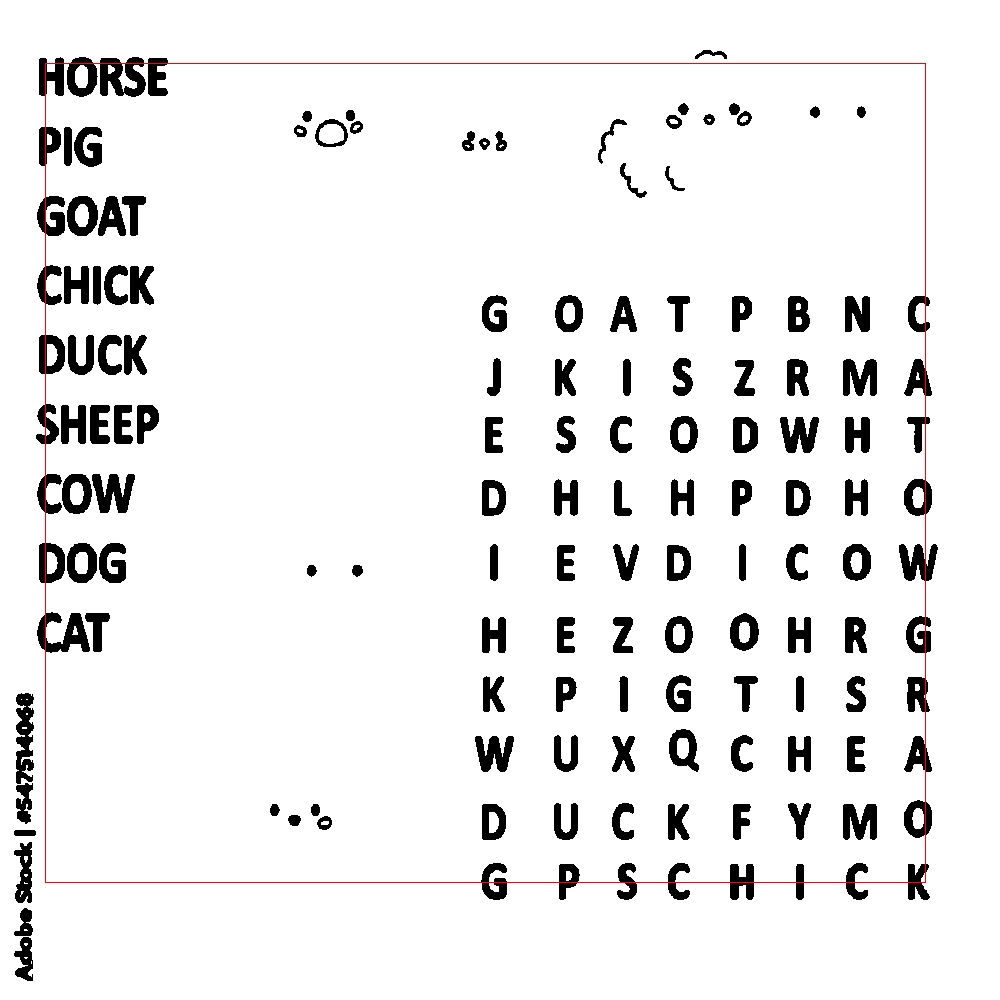
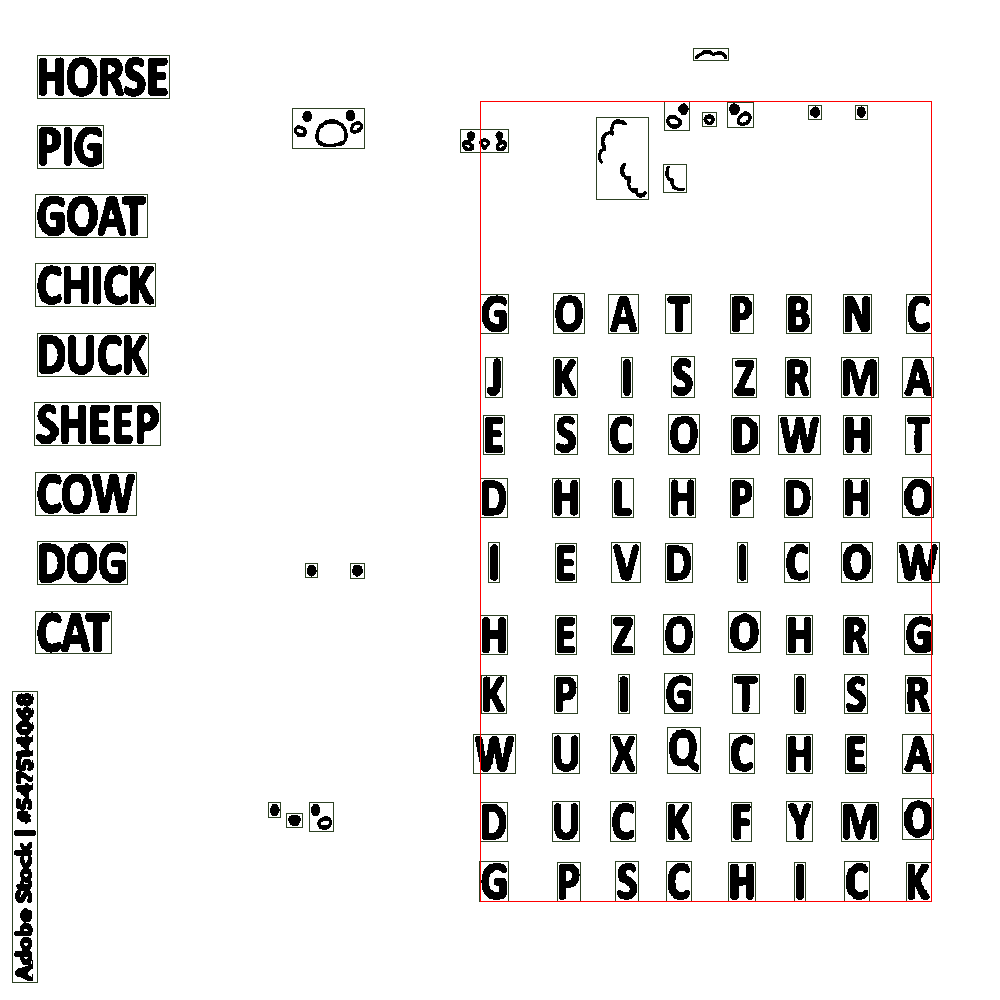
pas mal du tt

Changed region(s): [[0.279, 0.806, 0.31, 0.837]]

diff --git a/src/Image/Detection/cannyParameters.c b/src/Image/Detection/cannyParameters.c
@@ -3,9 +3,66 @@
 #include "boxes.h"
 #include "refineImage.h"
 
+
+
+int is_from_grid(bBoundingBox *boxes, int numBoxes, bBoundingBox box, int mod)
+{
+    
+    if(mod == 1) //width
+    {
+        sort(boxes, 1, numBoxes);
+        for(int i = 0; i < numBoxes; i++)
+        {
+            if(boxes[i].height<10 || boxes[i].width<5)
+            continue;
+            if(
+                boxes[i].height > (box.height - (box.height / 4)) &&
+                boxes[i].height < (box.height + (box.height / 4)) &&
+                boxes[i].min_y < (box.min_y + (box.height / 3))&&
+                boxes[i].min_y > (box.min_y - (box.height / 3))&&
+
+                ((boxes[i].min_x != box.min_x) ||
+                (boxes[i].min_y != box.min_y)) &&
+                (boxes[i].min_x < ((2 * (box.width))+box.max_x) || 
+                boxes[i].max_x > (box.min_x-(2 * (box.width)))))
+                return 1;
+        }
+    }
+    else if(mod == 2)//height
+    {
+        
+        sort(boxes, 2, numBoxes);
+        for(int i = 0; i < numBoxes; i++)
+        {
+            if(boxes[i].height<10 || boxes[i].width<5)
+            continue;
+            if(boxes[i].width > (box.width - (box.width / 2)) &&
+               boxes[i].width < (box.width + (box.width / 3)) &&
+               boxes[i].min_x > (box.min_x - (box.width / 2)) &&
+               boxes[i].min_x < (box.min_x + (box.width / 3)) &&
+               
+
+               ((boxes[i].min_x != box.min_x) ||
+                (boxes[i].min_y != box.min_y)) &&
+                (boxes[i].max_y > (box.min_y-( 2* (box.height))) || 
+                boxes[i].min_y < (box.max_y+( 2 * (box.height)))))
+                return 1;
+            
+        }
+    }
+    return 0;
+}
+
+
+
+
+
+
+
 void find_grid(bBoundingBox *boxes, int num_boxes, iImage *img) {
     double wavrage = compute_median2(boxes, 1, num_boxes);
     double wavrage2 = compute_median2(boxes, 2, num_boxes);
+    double savrage = compute_median2(boxes, 3, num_boxes);
     bBoundingBox *boxes_inter = sort(boxes, 1, num_boxes);
 
     int x_min = img->width;
@@ -14,10 +71,16 @@ void find_grid(bBoundingBox *boxes, int num_boxes, iImage *img) {
     int y_max = 0;
 
     for (int i = 0; i < num_boxes - 1; i++) {
-        if (boxes_inter[i].height > (wavrage - (wavrage / 2)) &&
+        if(boxes_inter[i].height<10 || boxes_inter[i].width<5)
+            continue;
+        if (boxes_inter[i].surface > (savrage - (savrage / 3)) &&
+            boxes_inter[i].surface < (savrage + (savrage / 3)) &&
+            boxes_inter[i].height > (wavrage - (wavrage / 2)) &&
             boxes_inter[i].height < (wavrage + (wavrage / 2)) &&
             boxes_inter[i].width < (2 * (wavrage)) &&
-            boxes_inter[i].width < (wavrage2 + (wavrage2 / 2))) {
+            boxes_inter[i].width < (wavrage2 + (wavrage2 / 2)) &&
+            (is_from_grid(boxes_inter, num_boxes, boxes_inter[i], 1) &&
+            is_from_grid(boxes_inter, num_boxes, boxes_inter[i], 2))){
             if (boxes_inter[i].max_x > x_max)
                 x_max = boxes_inter[i].max_x;
             if (boxes_inter[i].max_y > y_max)
@@ -27,6 +90,7 @@ void find_grid(bBoundingBox *boxes, int num_boxes, iImage *img) {
             if (boxes_inter[i].min_y < y_min)
                 y_min = boxes_inter[i].min_y;
         }
+        
     }
     cColor red = {255, 0, 0};
 
@@ -62,6 +126,7 @@ void find_word_lists(bBoundingBox *boxes, int num_boxes, iImage *img) {
             if (boxes_inter[i].min_y < y_min)
                 y_min = boxes_inter[i].min_y;
         }
+        
     }
 
     int h = (y_max - (y_min));

diff --git a/src/Image/Detection/canny.c b/src/Image/Detection/canny.c
@@ -145,8 +145,12 @@ void apply_canny(void (*func)(bBoundingBox *, int, iImage *), iImage *img) {
     int num_boxes;
     find_bounding_boxes(dilated_edge_map, img->height, img->width, &boxes,
                         &num_boxes);
+    merge_bounding_boxes(boxes, &num_boxes, 5, 5);
 
     // function with parameters
+    for(int i = 0; i < num_boxes; i++) {
+        draw_rectangle(img, boxes[i].min_x, boxes[i].min_y, boxes[i].max_x, boxes[i].max_y, (cColor){45, 65, 35});
+    }
     func(boxes, num_boxes, img);
 
     for (int i = 0; i < img->height; i++) {

diff --git a/src/Image/Detection/findBoxes.c b/src/Image/Detection/findBoxes.c
@@ -6,6 +6,9 @@
 
 #include <stdio.h>
 
+
+
+
 bBoundingBox compute_array(bBoundingBox *boxes, int numBoxes) {
 
     double wavrage = compute_median2(boxes, 1, numBoxes);
@@ -59,3 +62,5 @@ bBoxSize compute_word_list(bBoundingBox *boxes, int numBoxes) {
     bBoxSize res2 = {res, index};
     return res2;
 }
+
+
